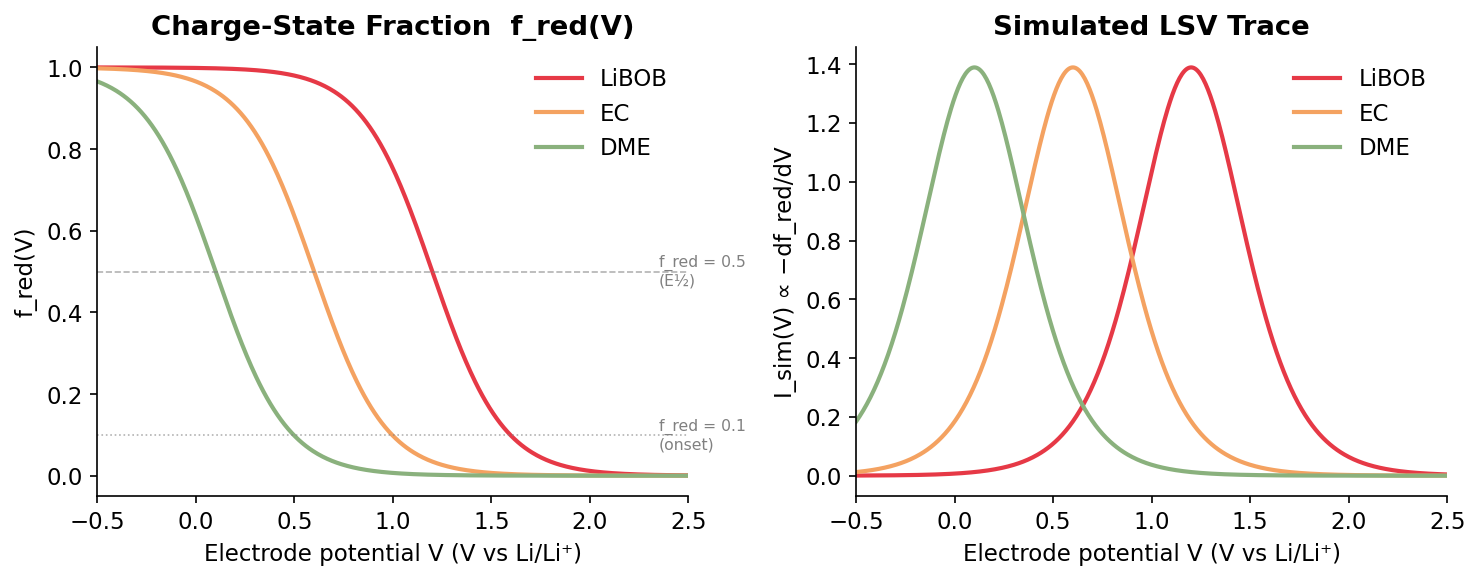
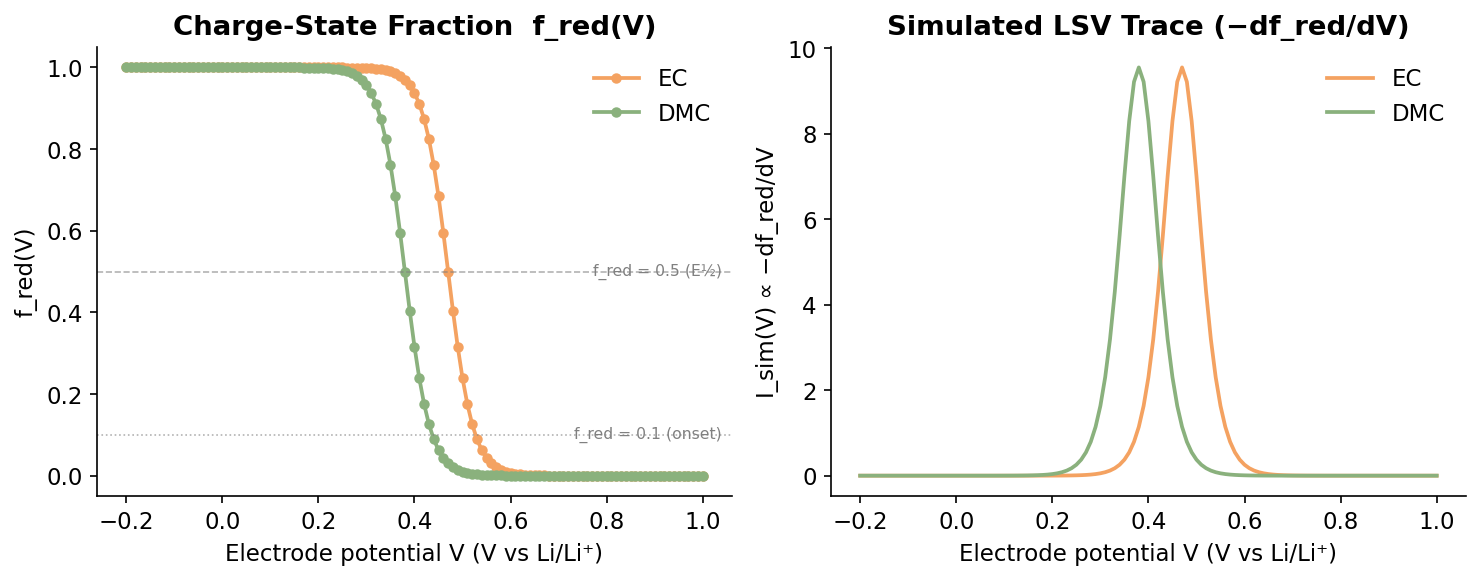
fig4: replace hardcoded schematic with real RedoxMC f_red(V) data for EC and DMC

diff --git a/paper/figures/generate_figures.py b/paper/figures/generate_figures.py
@@ -191,60 +191,63 @@ def fig3_stability_windows():
 
 
 # ══════════════════════════════════════════════════════════════════════════════
-# FIG 4 – f_red(V) concept schematic  (3 representative molecules)
+# FIG 4 – f_red(V) from real RedoxMC calculations (EC and DMC)
+# Data source: experimental_redox_report / electrolyte_redox_curves.csv
 # ══════════════════════════════════════════════════════════════════════════════
 def fig4_fred_concept():
-    """Schematic f_red(V) curves for LiBOB, EC, and DME."""
-    V = np.linspace(-0.5, 2.5, 500)
+    REDOX_CSV = (
+        Path(__file__).parent.parent.parent
+        / "results" / "experimental_redox_report_20260311_234115"
+        / "electrolyte_redox_curves.csv"
+    )
 
-    # Parameters extracted from screening data
-    # E_halfwave (V vs Li/Li+) for each species
-    e_half = {
-        "LiBOB": 1.20,
-        "EC":    0.60,
-        "DME":   0.10,
-    }
-
-    def fred(V, E12, width=0.18):
-        """Boltzmann-derived f_red = 1/(1+exp((V-E12)/width))."""
-        return 1.0 / (1.0 + np.exp((V - E12) / width))
-
-    def I_sim(V, E12, width=0.18):
-        """-d(f_red)/dV  (LSV-like peak)."""
-        exp_term = np.exp((V - E12) / width)
-        return exp_term / (width * (1 + exp_term)**2)
+    import csv as _csv
+    data = {"EC": [], "DMC": []}
+    with open(REDOX_CSV) as f:
+        for row in _csv.DictReader(f):
+            mol = row["molecule"].strip()
+            if mol in data:
+                data[mol].append({
+                    "v_li":    float(row["voltage_li_v"]),
+                    "f_red":   float(row["fraction_reduced"]),
+                    "mean_q":  float(row["mean_charge_e"]),
+                })
 
     fig, axes = plt.subplots(1, 2, figsize=(10, 4))
-
-    colors = {"LiBOB": SALT_COLORS["LiBOB"], "EC": SOLVENT_COLORS["EC"], "DME": SOLVENT_COLORS["DME"]}
+    COL = {"EC": "#F4A261", "DMC": "#8AB17D"}
 
     ax = axes[0]
-    for spec, col in [("LiBOB","#E63946"), ("EC","#F4A261"), ("DME","#8AB17D")]:
-        f = fred(V, e_half[spec])
-        ax.plot(V, f, label=spec, color=col, lw=2)
+    for mol, col in COL.items():
+        rows = sorted(data[mol], key=lambda r: r["v_li"])
+        v  = [r["v_li"]  for r in rows]
+        fr = [r["f_red"] for r in rows]
+        ax.plot(v, fr, "o-", label=mol, color=col, lw=1.8, ms=4)
 
-    ax.axhline(0.5, color="grey", lw=0.8, ls="--", alpha=0.6)
-    ax.axhline(0.1, color="grey", lw=0.8, ls=":",  alpha=0.6)
-    ax.text(2.35, 0.5,  "f_red = 0.5\n(E½)", va="center", fontsize=7.5, color="grey")
-    ax.text(2.35, 0.1,  "f_red = 0.1\n(onset)", va="center", fontsize=7.5, color="grey")
-
+    ax.axhline(0.5,  color="grey", lw=0.8, ls="--", alpha=0.6)
+    ax.axhline(0.1,  color="grey", lw=0.8, ls=":",  alpha=0.6)
+    ax.text(ax.get_xlim()[1] - 0.02, 0.5,  "f_red = 0.5 (E½)",  va="center", ha="right", fontsize=7.5, color="grey")
+    ax.text(ax.get_xlim()[1] - 0.02, 0.1,  "f_red = 0.1 (onset)", va="center", ha="right", fontsize=7.5, color="grey")
     ax.set_xlabel("Electrode potential V (V vs Li/Li⁺)")
     ax.set_ylabel("f_red(V)")
     ax.set_title("Charge-State Fraction  f_red(V)", fontweight="bold")
     ax.legend(frameon=False)
     ax.set_ylim(-0.05, 1.05)
-    ax.set_xlim(-0.5, 2.5)
 
+    # Compute I_sim = -d(f_red)/dV numerically
     ax2 = axes[1]
-    for spec, col in [("LiBOB","#E63946"), ("EC","#F4A261"), ("DME","#8AB17D")]:
-        I = I_sim(V, e_half[spec])
-        ax2.plot(V, I, label=spec, color=col, lw=2)
+    for mol, col in COL.items():
+        rows = sorted(data[mol], key=lambda r: r["v_li"])
+        v  = np.array([r["v_li"]  for r in rows])
+        fr = np.array([r["f_red"] for r in rows])
+        # simple first-order derivative
+        dv = np.gradient(v)
+        I  = -np.gradient(fr, v)   # -df_red/dV
+        ax2.plot(v, I, label=mol, color=col, lw=1.8)
 
     ax2.set_xlabel("Electrode potential V (V vs Li/Li⁺)")
     ax2.set_ylabel("I_sim(V) ∝ −df_red/dV")
-    ax2.set_title("Simulated LSV Trace", fontweight="bold")
+    ax2.set_title("Simulated LSV Trace (−df_red/dV)", fontweight="bold")
     ax2.legend(frameon=False)
-    ax2.set_xlim(-0.5, 2.5)
 
     fig.tight_layout()
     fig.savefig(OUT / "fig4_fred_concept.png", bbox_inches="tight")
